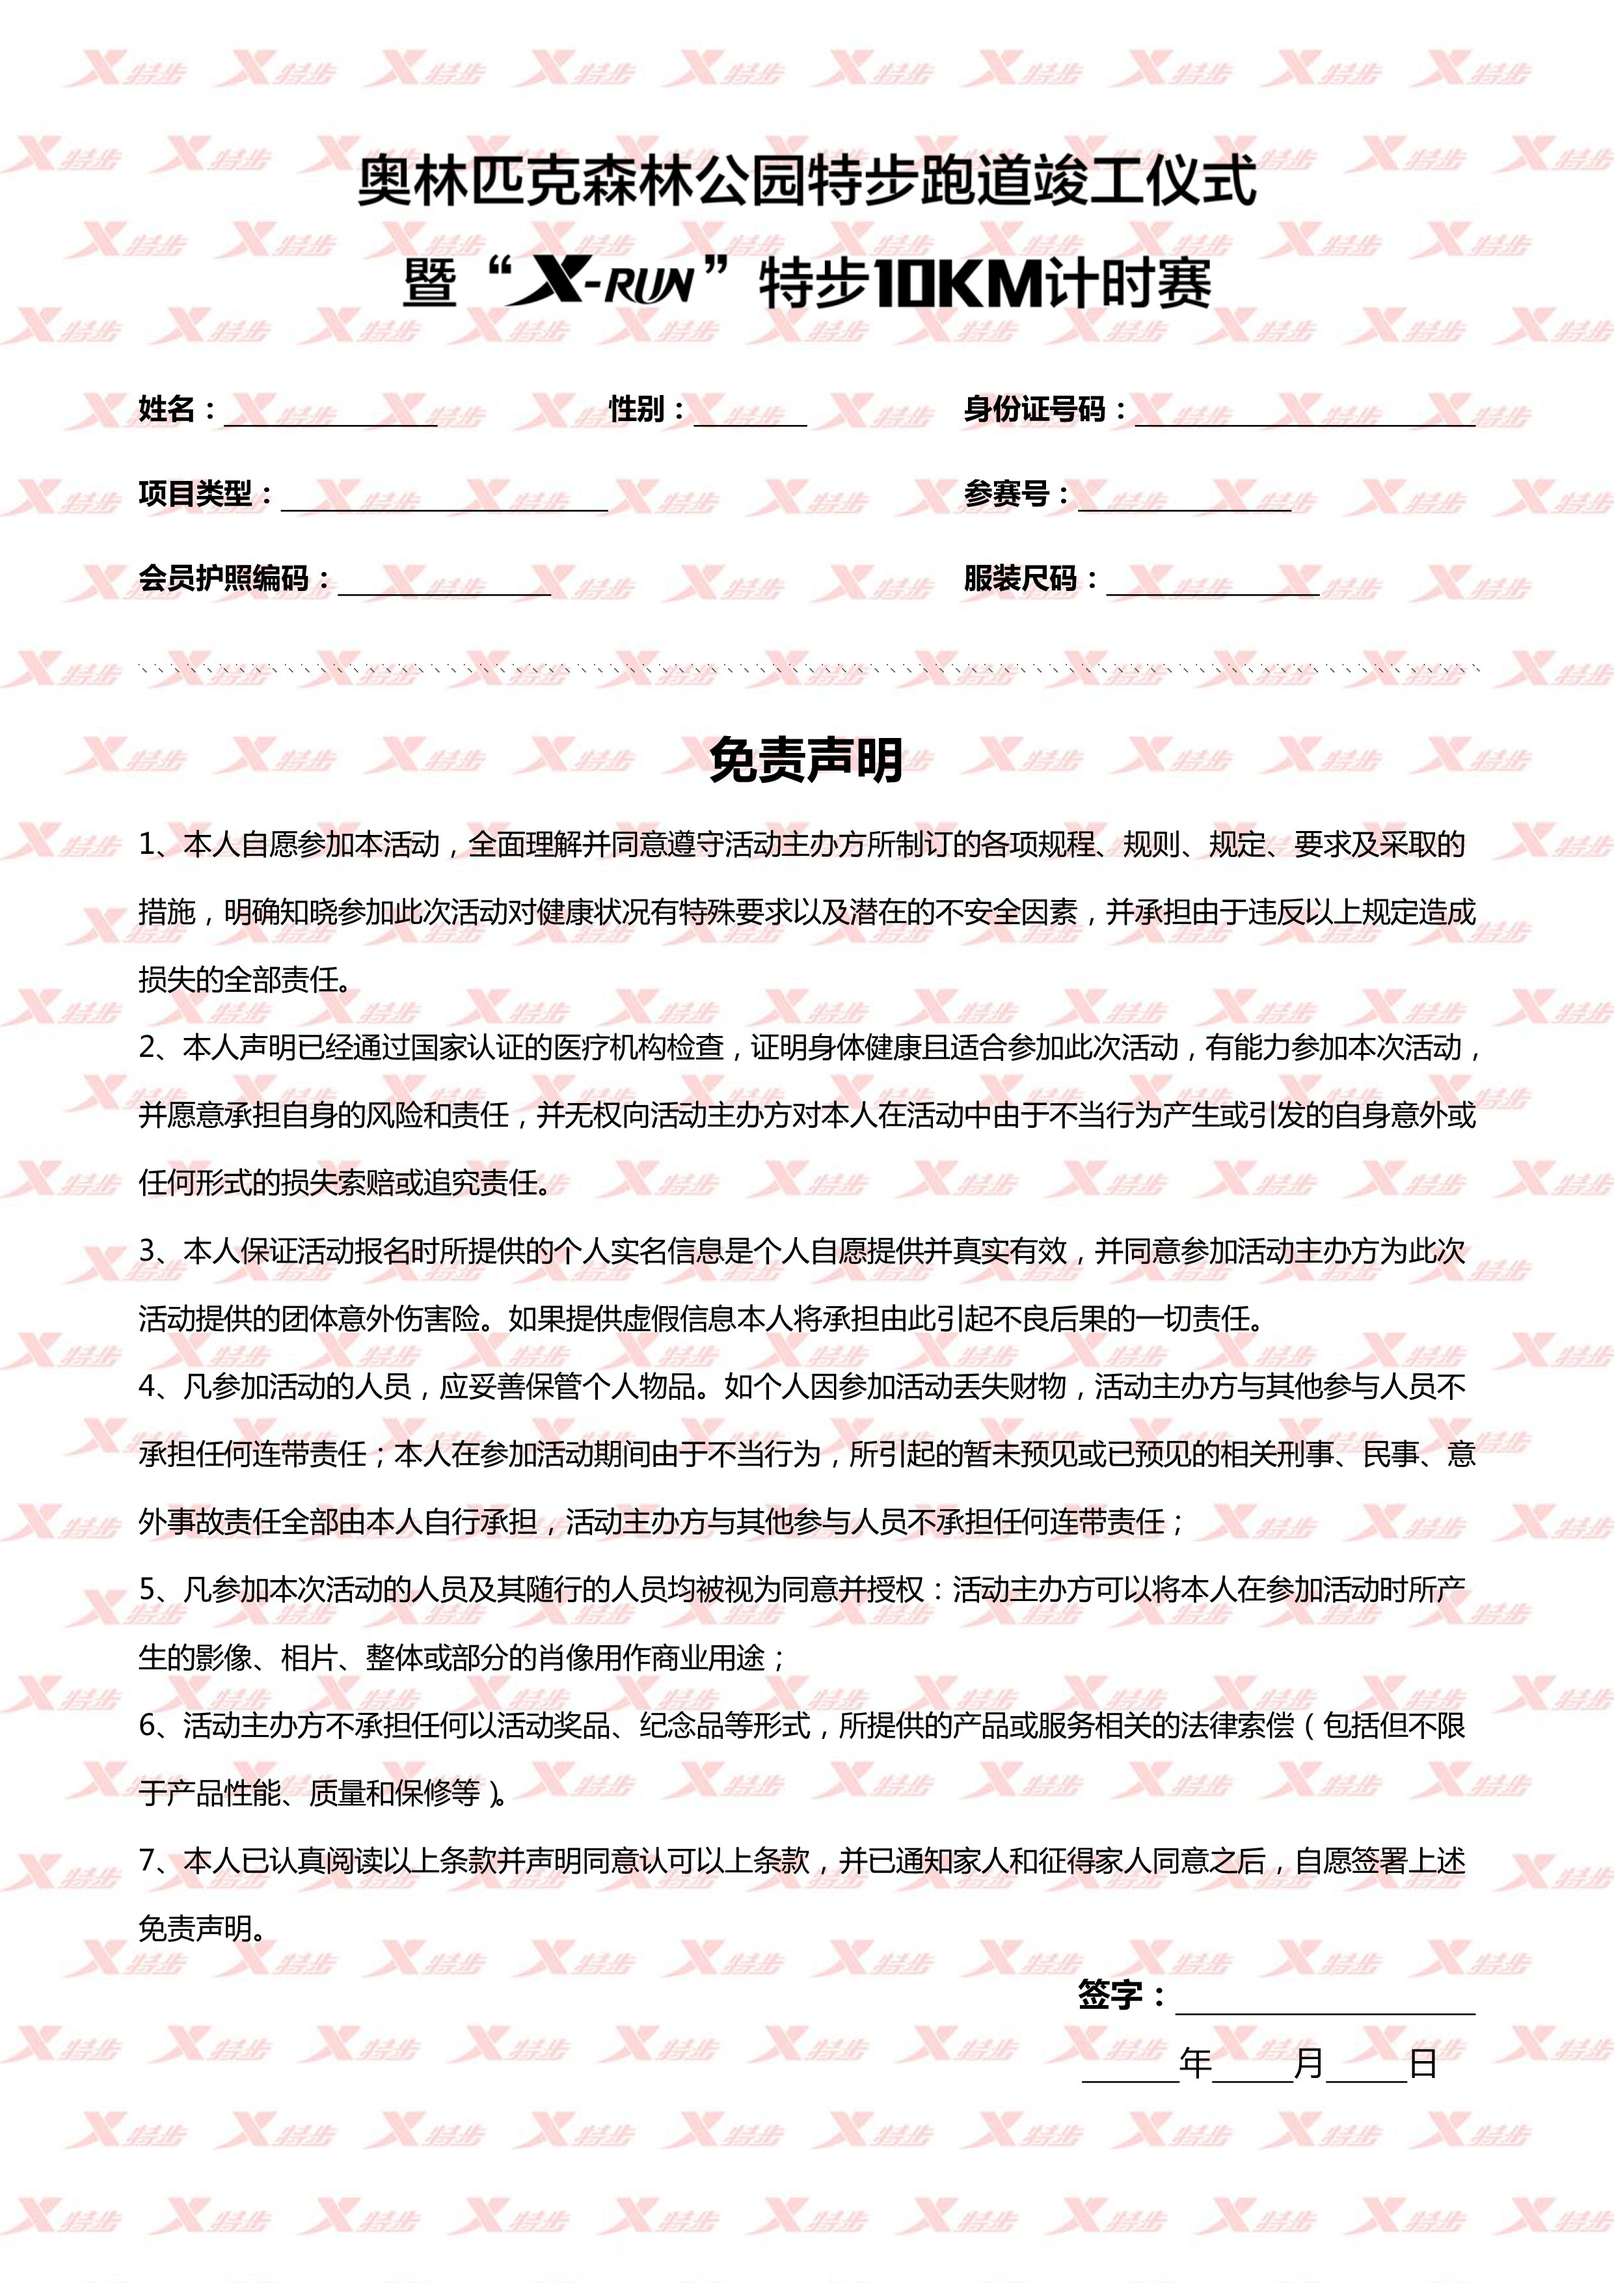
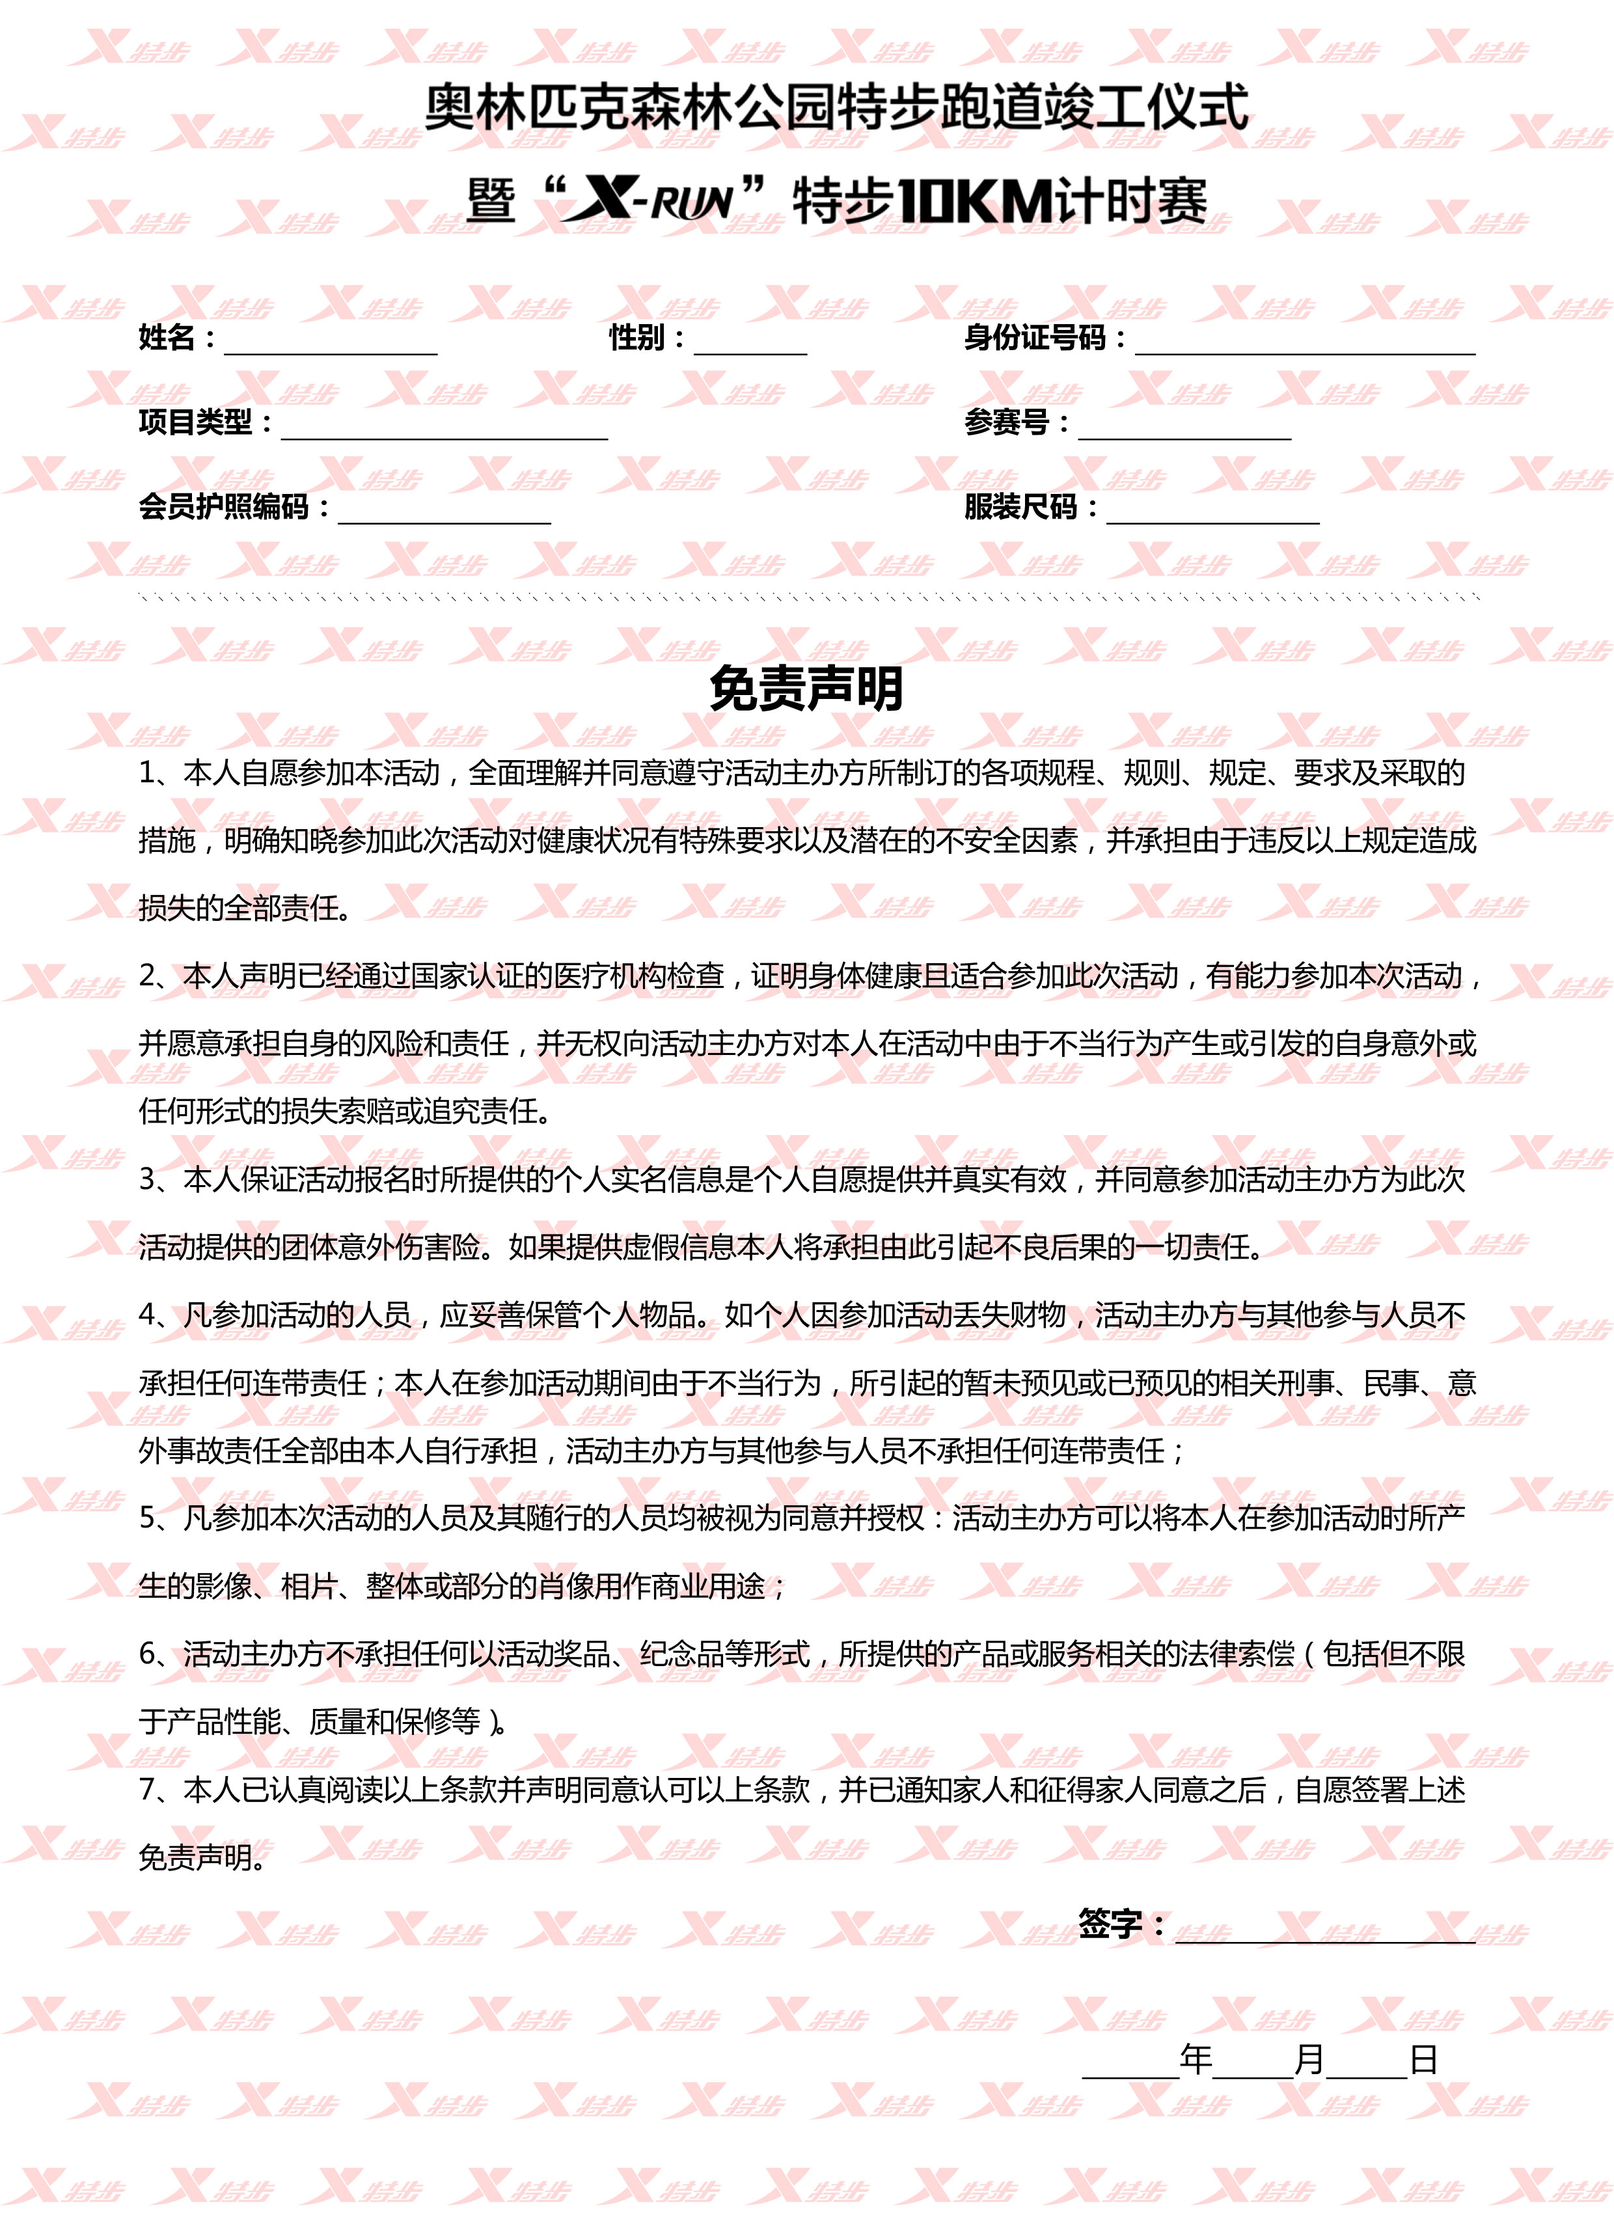
print confirmation

diff --git a/public/_/styles/main.css b/public/_/styles/main.css
@@ -55,43 +55,45 @@ nav {
 
 body.print nav {
   display: none; }
+body.print canvas {
+  max-width: 100%; }
 
 #confirmation {
   position: relative;
   z-index: 1000;
   margin: 0 auto;
-  width: 800px; }
+  width: 2480px; }
   #confirmation img {
     position: absolute;
     z-index: 1500;
-    width: 800px;
-    height: 1131px; }
+    max-width: 100%; }
   #confirmation .content {
     position: absolute;
     z-index: 2000; }
     #confirmation .content span {
       position: absolute;
       font-weight: bold;
-      font-size: 14px;
-      width: 150px; }
+      font-size: 40px;
+      font-weight: bold;
+      width: 350px; }
       #confirmation .content span.name {
-        left: 110px;
-        top: 192px; }
+        left: 349px;
+        top: 490px; }
       #confirmation .content span.sex {
-        top: 192px;
-        left: 342px; }
+        top: 490px;
+        left: 1068px; }
       #confirmation .content span.cardno {
-        top: 192px;
-        left: 562px; }
+        top: 490px;
+        left: 1738px; }
       #confirmation .content span.item {
-        left: 140px;
-        top: 232px; }
+        left: 423px;
+        top: 617px; }
       #confirmation .content span.no {
-        left: 534px;
-        top: 234px; }
+        left: 1654px;
+        top: 617px; }
       #confirmation .content span.passport {
-        left: 165px;
-        top: 276px; }
+        left: 512px;
+        top: 749px; }
       #confirmation .content span.suitsize {
-        top: 276px;
-        left: 554px; }
+        top: 749px;
+        left: 1698px; }

diff --git a/public/_/styles/main.scss b/public/_/styles/main.scss
@@ -92,6 +92,9 @@ body {
 		nav {
 			display: none;
 		}
+		canvas{
+			max-width: 100%;
+		}
 	}
 }
 
@@ -99,12 +102,11 @@ body {
 	position: relative;
 	z-index: 1000;
 	margin: 0 auto;
-	width: 800px;
+	width:2480px;
 	img {
 		position: absolute;
 		z-index: 1500;
-		width: 800px;
-		height: 1131px;
+		max-width:100%;
 	}
 	.content{
 		position: absolute;
@@ -112,35 +114,36 @@ body {
 		span{
 			position: absolute;
 			font-weight: bold;
-			font-size: 14px;
-			width: 150px;
+			font-size: 40px;
+			font-weight: bold;
+			width: 350px;
 			&.name{
-				left:110px;
-				top:192px;
+				left:349px;
+				top:490px;
 			}
 			&.sex{
-				top:192px;
-				left:342px
+				top:490px;
+				left:1068px
 			}
 			&.cardno{
-				top:192px;
-				left: 562px;
+				top:490px;
+				left:1738px;
 			}
 			&.item{
-				left:140px;
-				top:232px;
+				left:423px;
+				top:617px;
 			}
 			&.no{
-				left:534px;
-				top:234px;
+				left:1654px;
+				top:617px;
 			}
 			&.passport{
-				left: 165px;
-				top: 276px;
+				left: 512px;
+				top: 749px;
 			}
 			&.suitsize{
-				top:276px;
-				left: 554px;
+				top: 749px;
+				left: 1698px;
 			}
 		}
 	}

diff --git a/public/query/partials/confirmation.html b/public/query/partials/confirmation.html
@@ -1,4 +1,4 @@
 
-<div id="confirmation" ng-if="info.errno == 0" ng-init="data = info.data[0]" class="visible-md-block visible-md-block visible-lg-block"><img src="../../_/images/confirmation.jpg" class="img-view"/>
+<div id="confirmation" ng-if="info.errno == 0" ng-init="data = info.data[0]"><img src="../../_/images/confirmation.jpg" class="img-view"/>
   <div class="content"><span ng-bind="&quot;{{data.name}}&quot;" class="name"></span><span ng-bind="&quot;{{data.sex}}&quot;" class="sex"></span><span ng-bind="&quot;{{data.cardNo}}&quot;" class="cardno"></span><span ng-bind="&quot;特步{{data.item}}&quot;" class="item"></span><span ng-bind="&quot;{{data.no}}&quot;" class="no"></span><span ng-bind="&quot;{{data.passport}}&quot;" class="passport"></span><span ng-bind="&quot;{{data.suitSize}}&quot;" class="suitsize"></span></div>
 </div>
